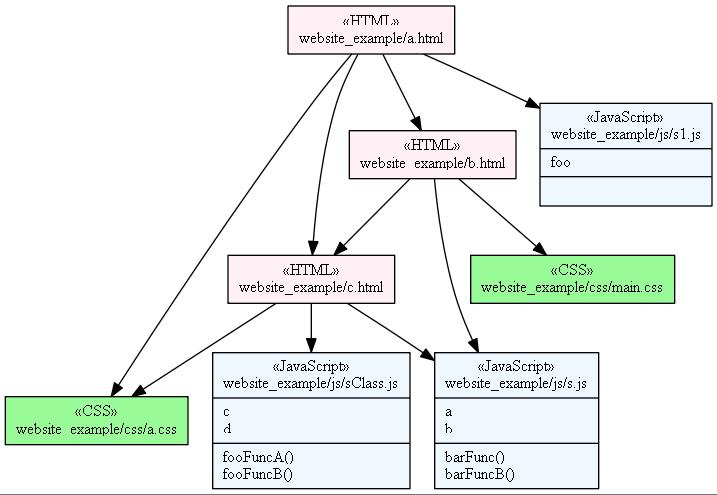
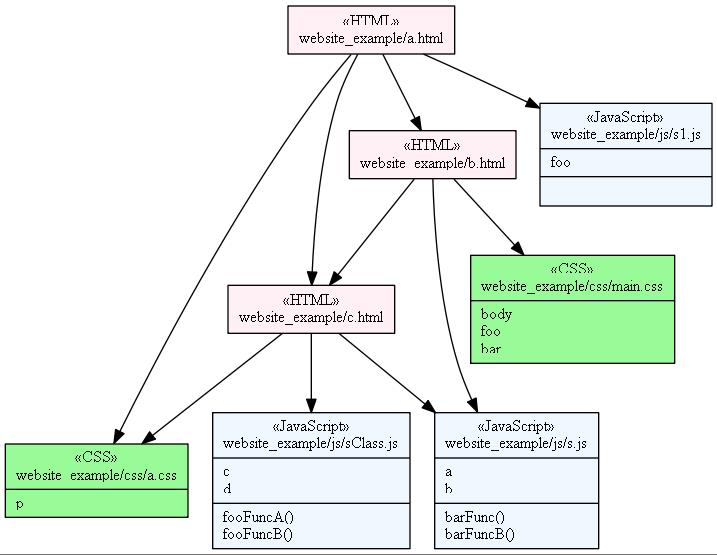
Added CSS selectors in CSS classes

diff --git a/lib/deps/graphvizClass.js b/lib/deps/graphvizClass.js
@@ -63,7 +63,7 @@ var graphvizClass = module.exports = {
 
 							}
 
-							g.addNode( node.name, {"label":'{&laquo;CSS»\\n'+node.name+'|'+rules.join('\\l')+'\\l|'+'\\l}',"fontsize":"12","shape":"record","style":"filled","fillcolor" : "palegreen"} );
+							g.addNode( node.name, {"label":'{&laquo;CSS»\\n'+node.name+'|'+rules.join('\\l')+'\\l}',"fontsize":"12","shape":"record","style":"filled","fillcolor" : "palegreen"} );
 						
 							//g.addNode( node.name, {"label":'{&laquo;CSS»\\n'+node.name+'}',"fontsize":"12","shape":"record","style":"filled","fillcolor" : "palegreen"} );
 						}
